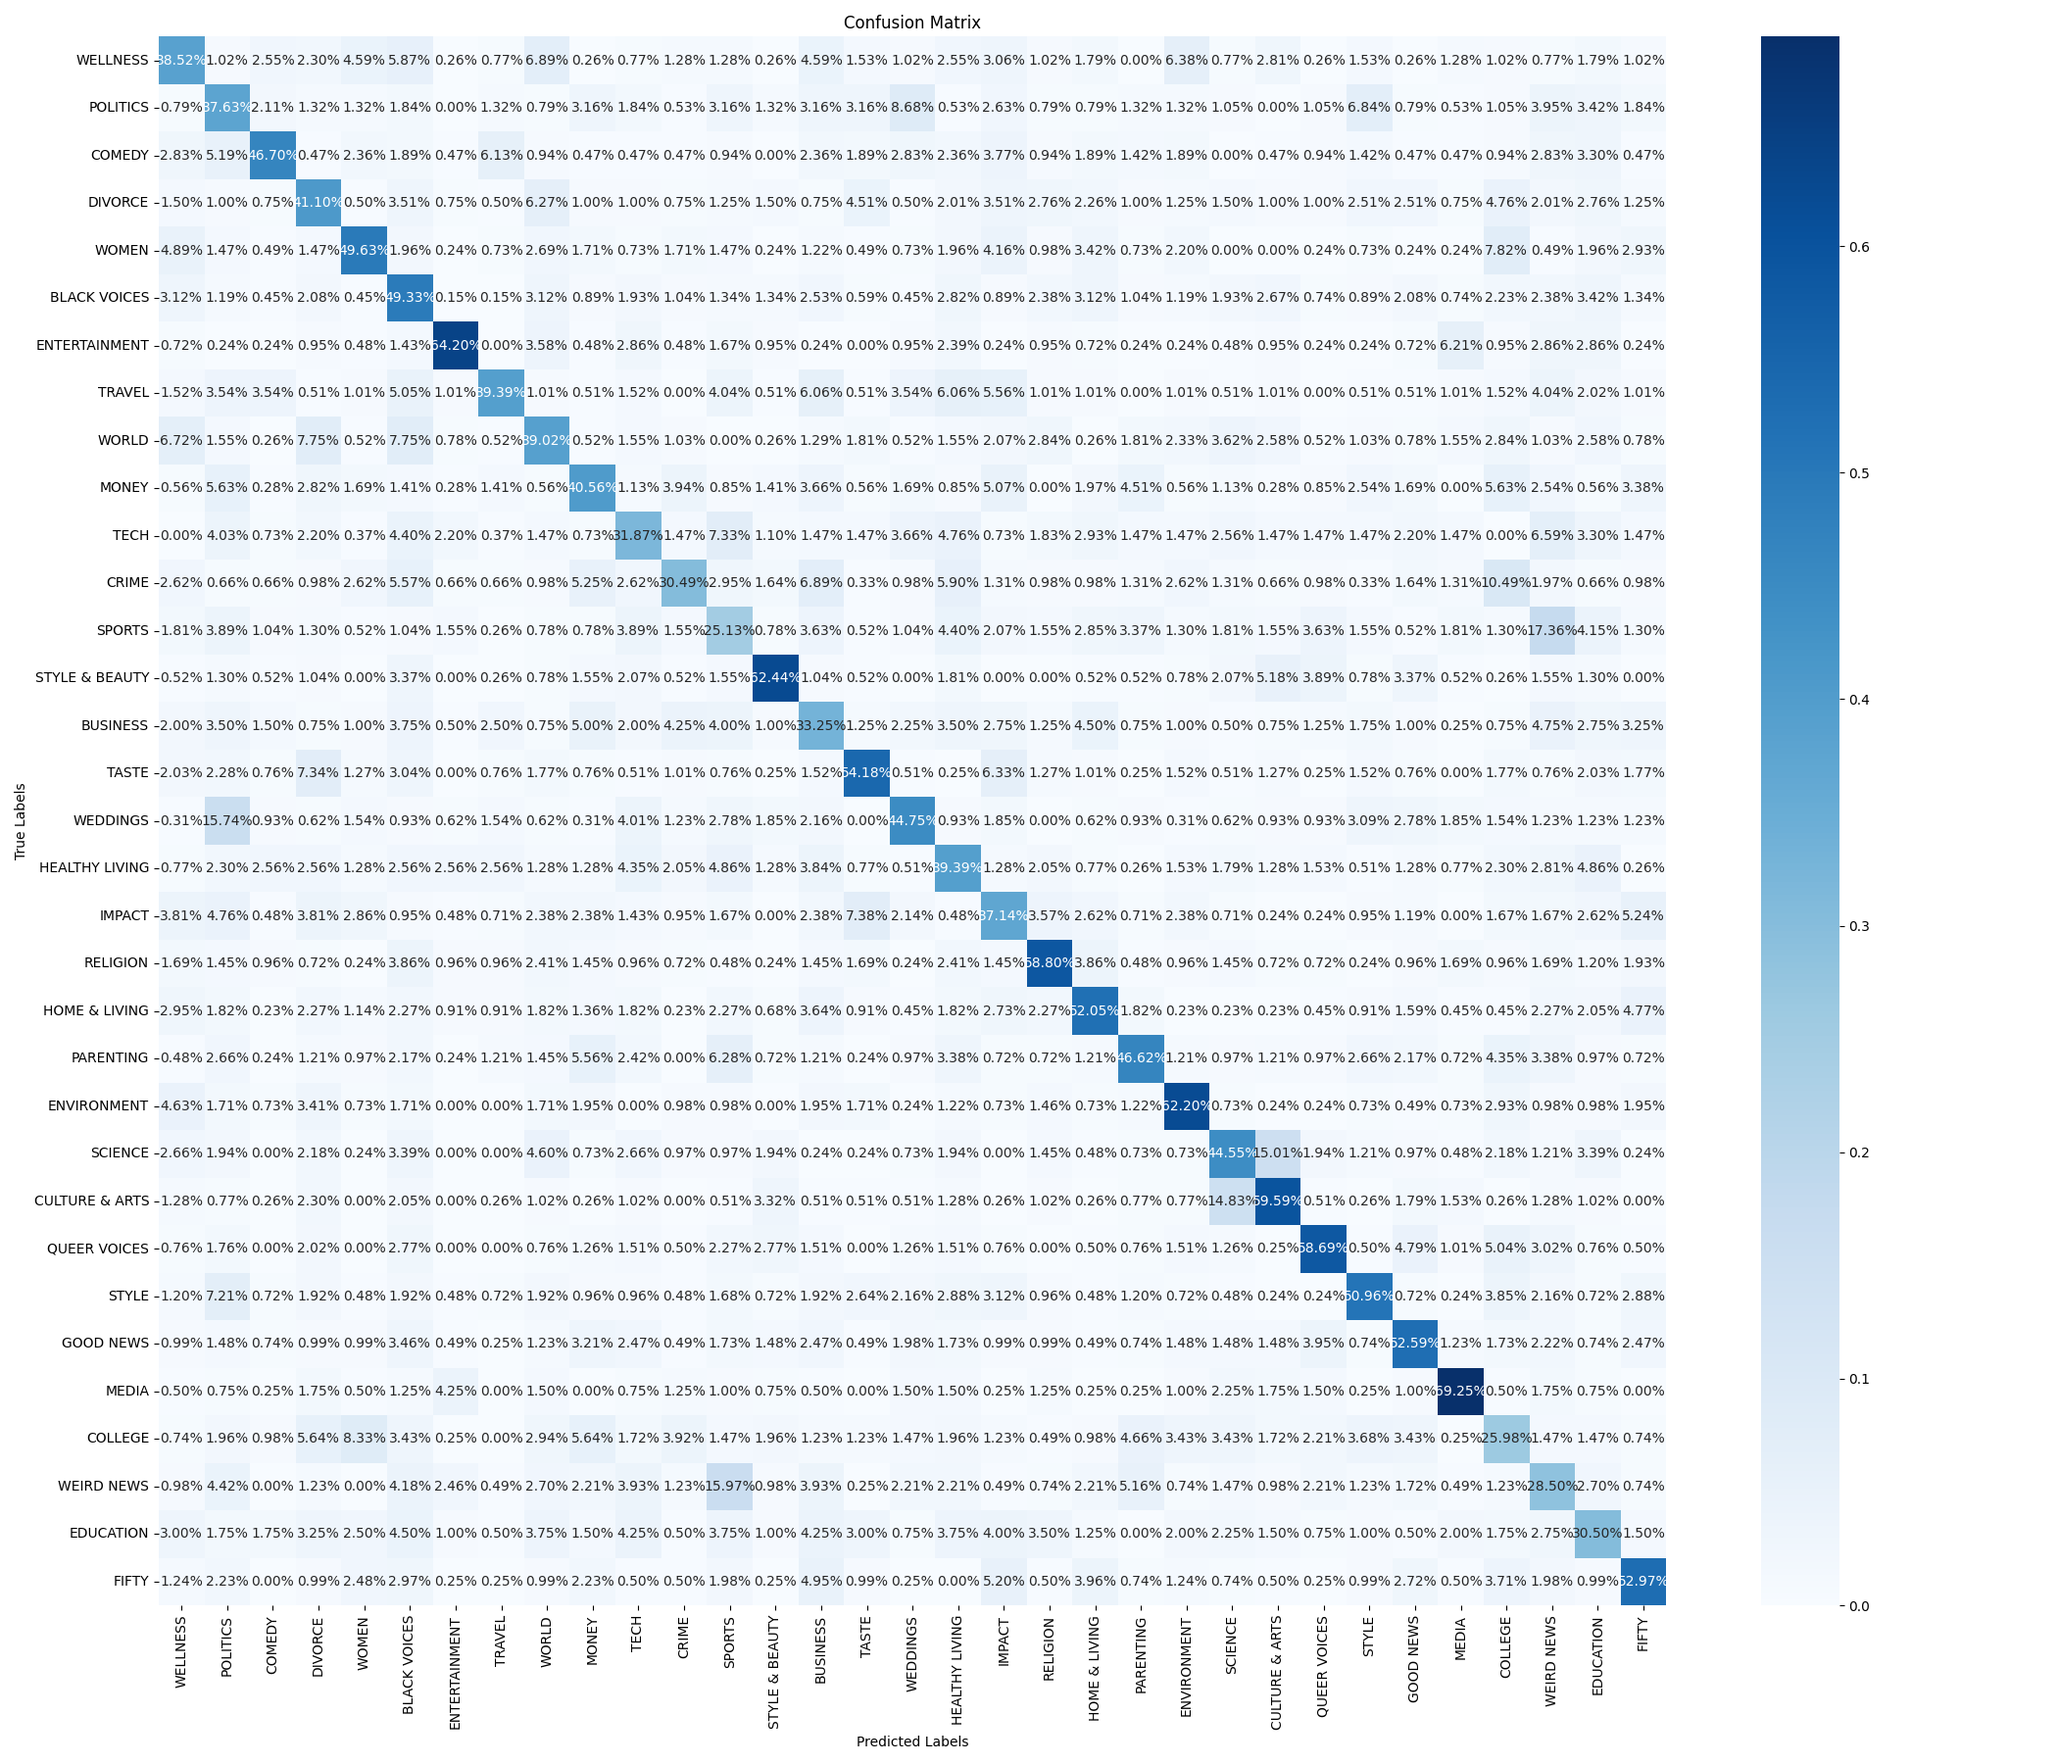
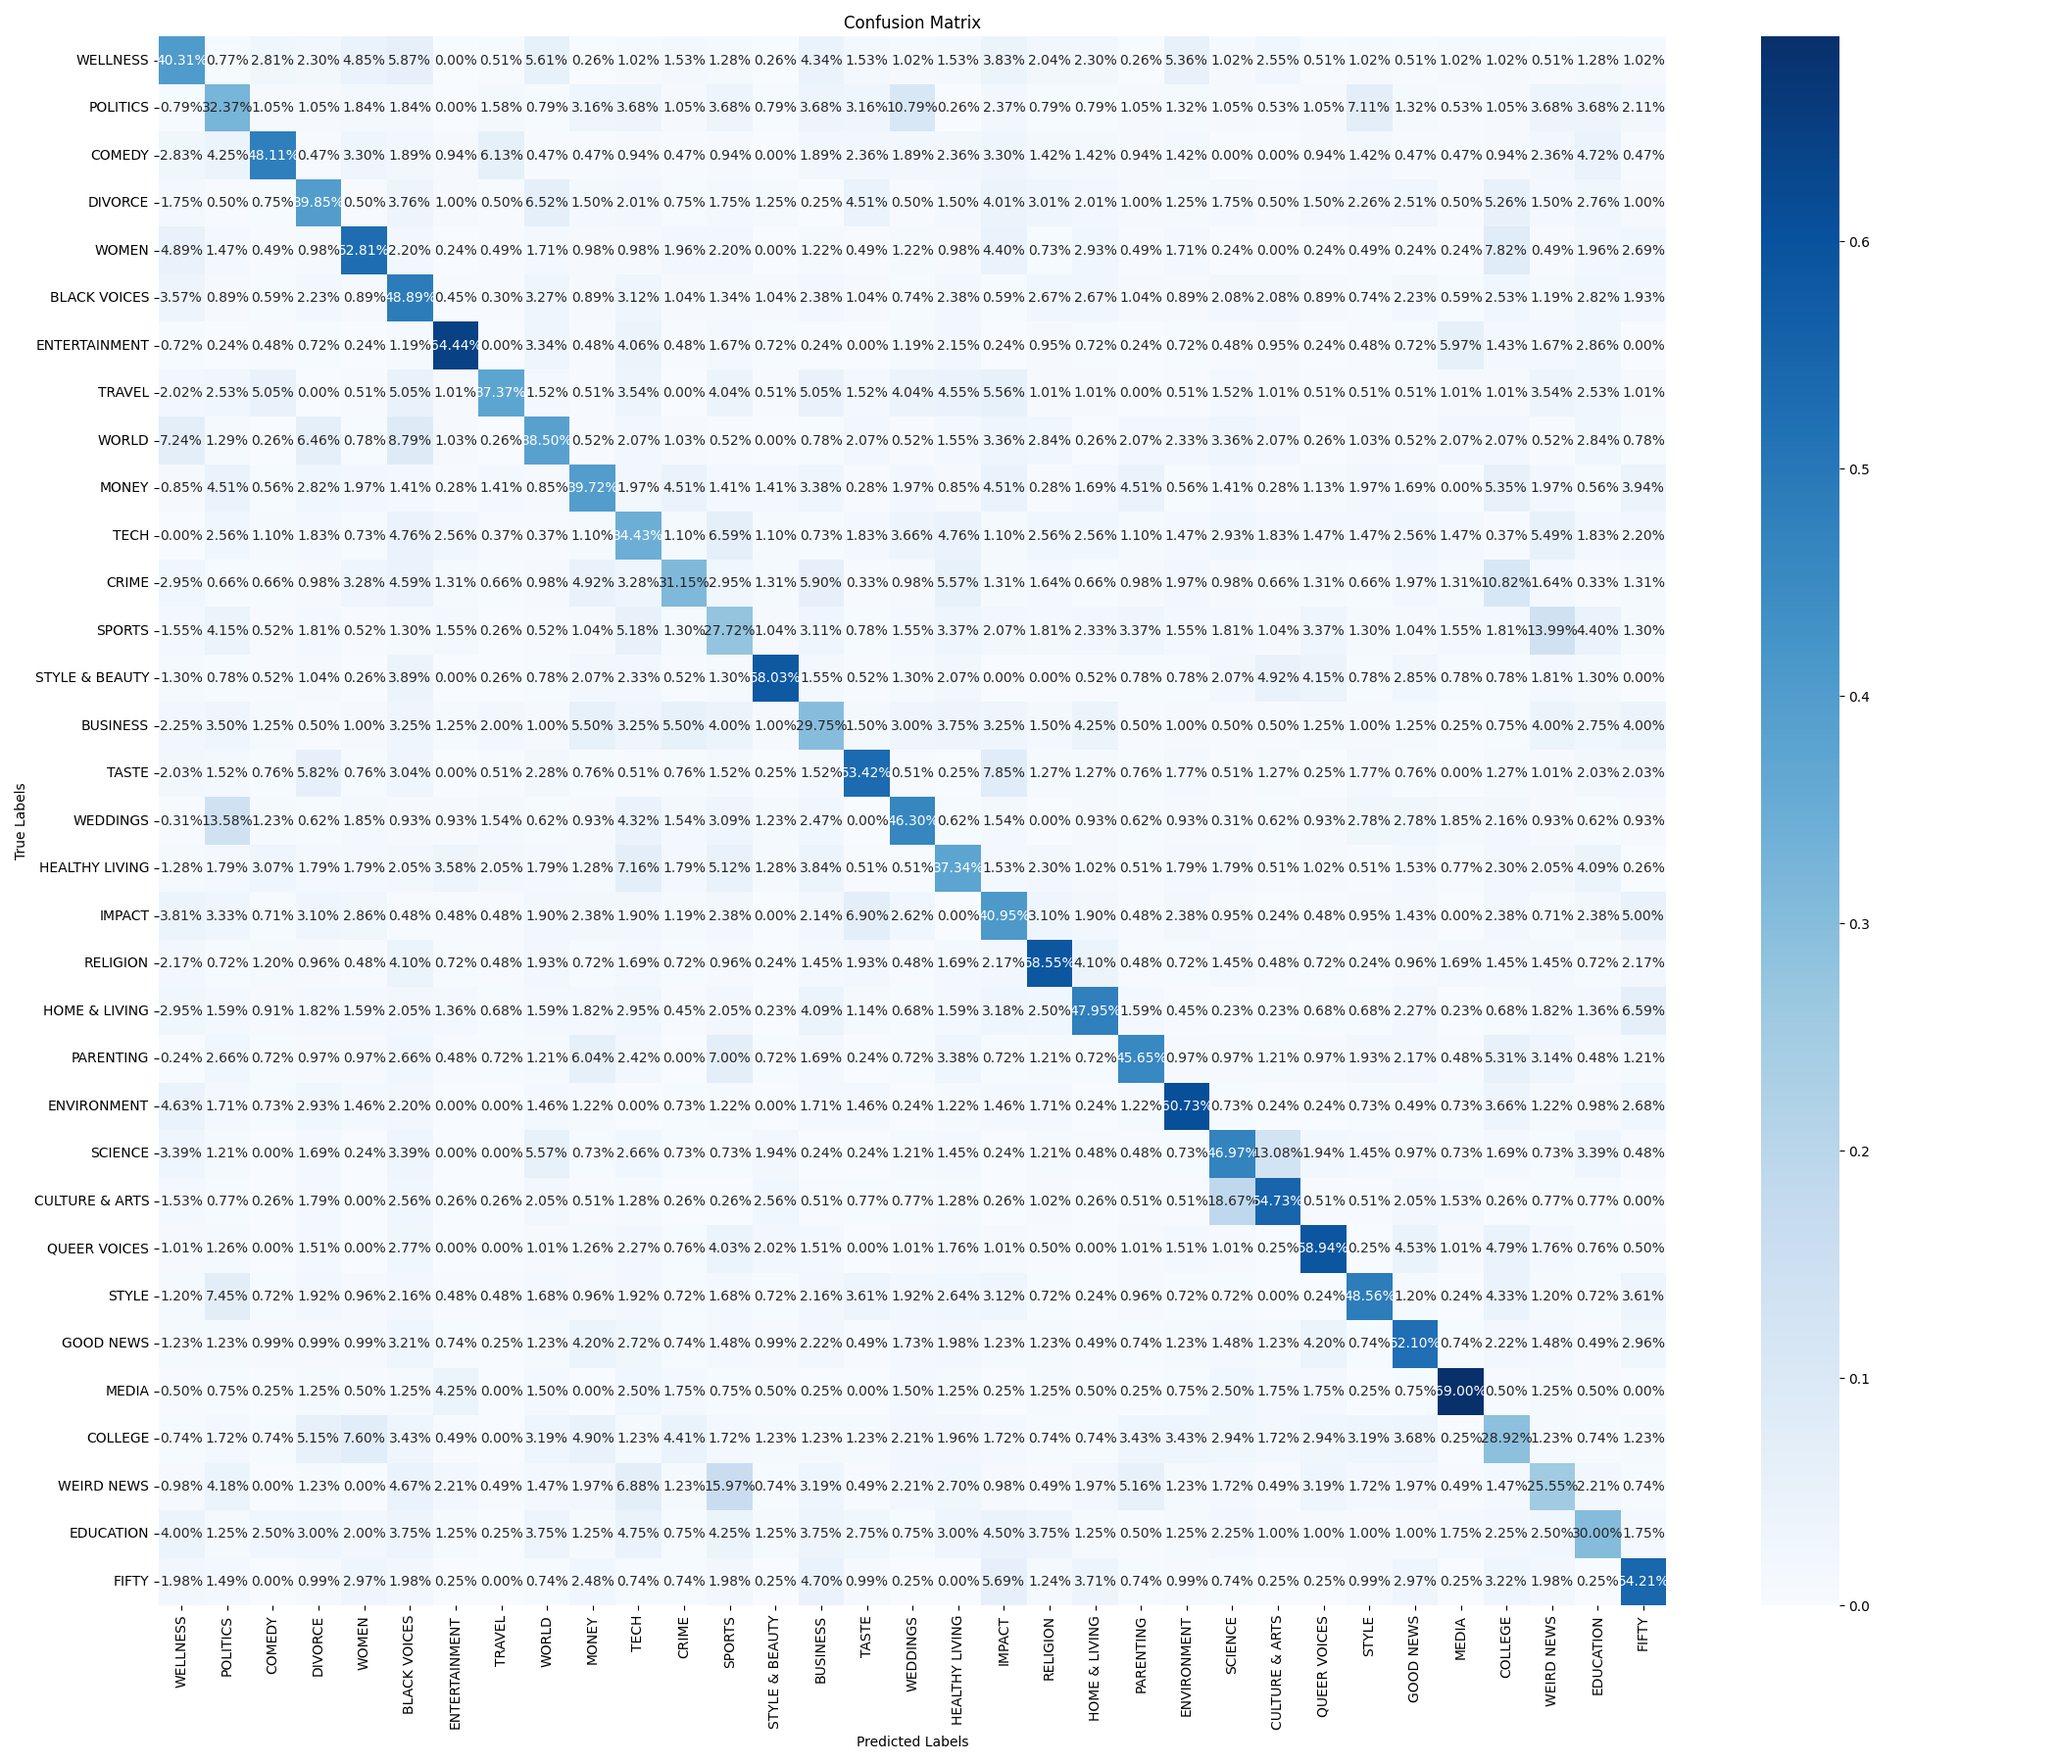
updated matrix to sklearn matrix

diff --git a/models/news_classification/news_model_sparse.py b/models/news_classification/news_model_sparse.py
@@ -1,6 +1,7 @@
 from sklearn.preprocessing import LabelEncoder
 
 from text_processing import load_dataset
+from sklearn.metrics import confusion_matrix as sk_confusion_matrix
 import numpy as np
 import torch
 import torch.nn as nn
@@ -132,15 +133,12 @@ for epoch in range(epochs):
 # Evaluate the model on the test set
 all_preds, all_labels = evaluate_model(model, test_loader, criterion, device)
 
-# Confusion matrix
-confusion_matrix = torch.zeros(output_size, output_size)
 
-# Populate the confusion matrix
-confusion_matrix += torch.nn.functional.one_hot(torch.tensor(all_labels), num_classes=output_size).T @ torch.nn.functional.one_hot(torch.tensor(all_preds), num_classes=output_size)
+# Compute the confusion matrix using sklearn
+conf_matrix = sk_confusion_matrix(all_labels, all_preds, labels=range(output_size))
 
 # Normalize the confusion matrix to get percentages
-conf_matrix_np = confusion_matrix.detach().cpu().numpy()
-conf_matrix_percentage = conf_matrix_np / (conf_matrix_np.sum(axis=1, keepdims=True) + 1e-10)
+conf_matrix_percentage = conf_matrix / (conf_matrix.sum(axis=1, keepdims=True) + 1e-10)
 
 # Plot the confusion matrix
 plt.figure(figsize=(21, 18))
